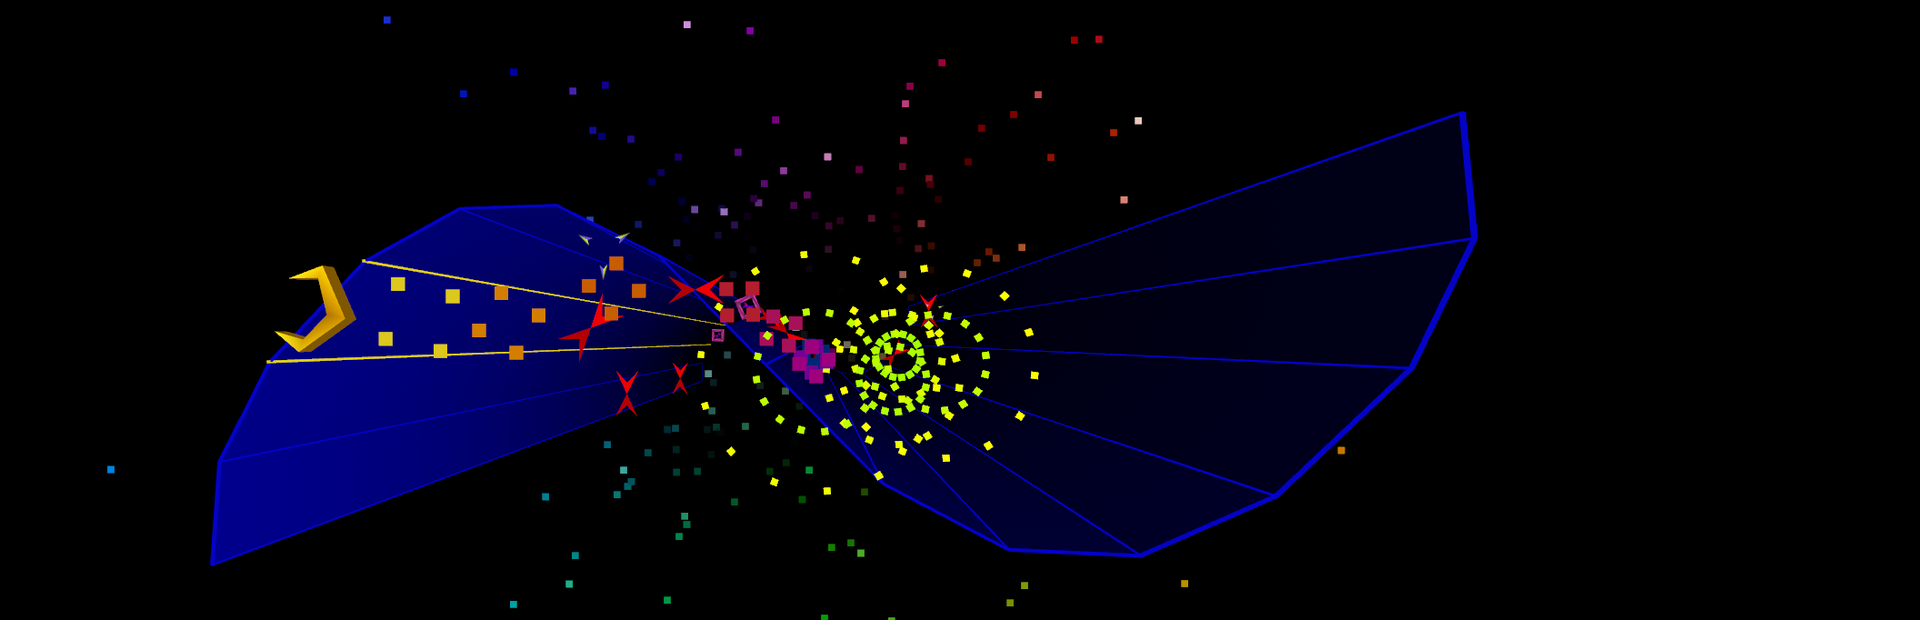
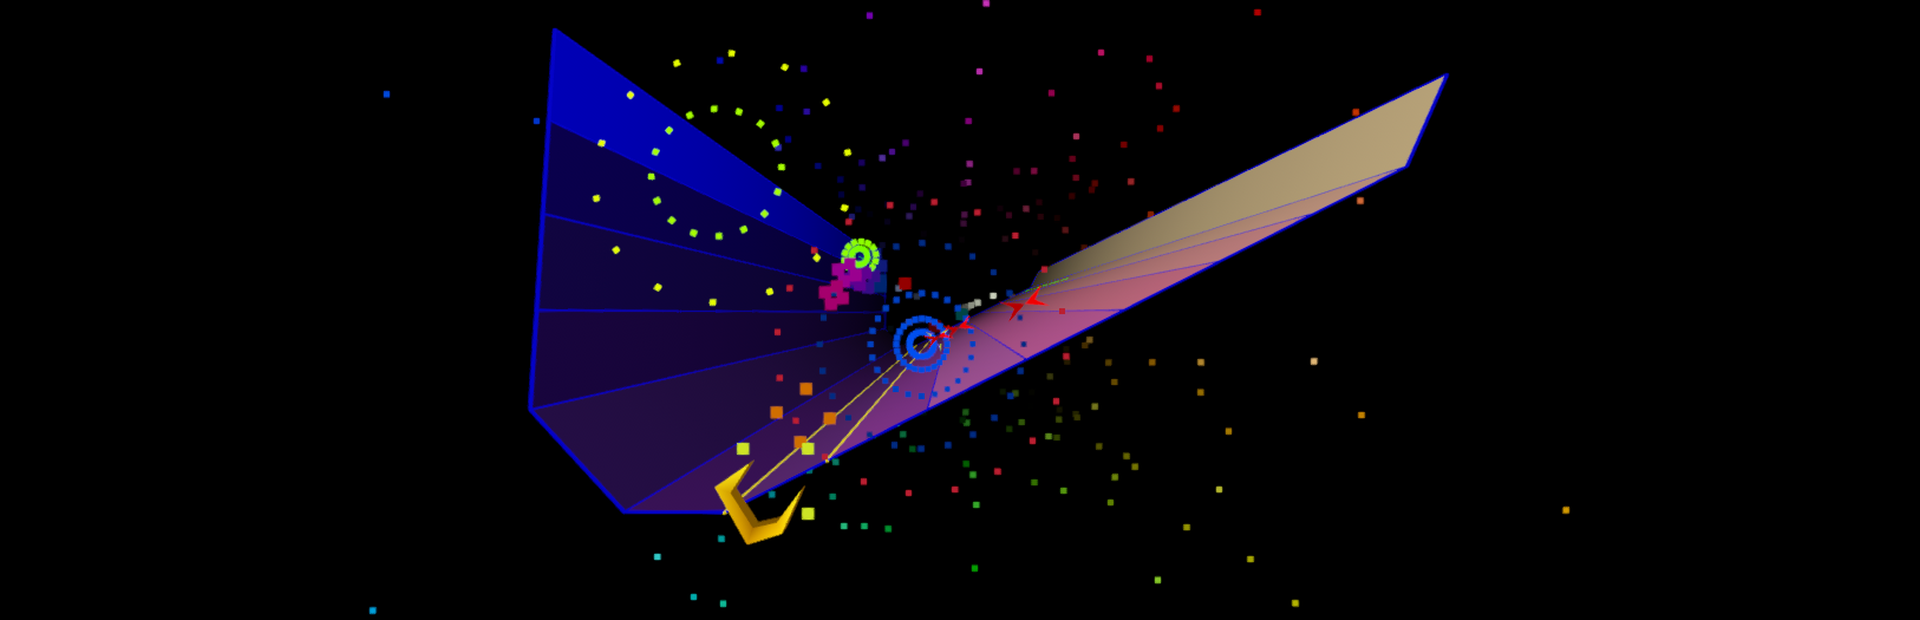
Refresh Steam artwork with level 8 and add an explosion GIF to the README

diff --git a/docs/reference.md b/docs/reference.md
@@ -510,8 +510,8 @@ shortcut ID. Existing custom artwork and nonempty shortcut icons are preserved;
 re-running the installer fills missing artwork and adds an icon to older shortcuts.
 It also replaces the old bundled hero with the reframed version when its bytes
 match the original gameplay image.
-The hero background is a wide gameplay screenshot with a blue
-web, gold claw, enemies, and explosion rings, without HUD or announcement overlays.
+The hero background is a gameplay screenshot of level 8's long V-shaped web,
+with a gold claw, enemies, and explosion rings, without HUD or announcement overlays.
 The screenshot fits within a centered 440-pixel-high area of the 1920×620 hero,
 leaving room for Big Picture's vertical crop and bottom-left logo.
 Running it from the installed copy also works and skips copying onto itself.
@@ -523,6 +523,9 @@ cover captions; `uv` installs the script's Python dependencies. Normal builds an
 installation use the bundled PNGs and need no image conversion tools.
 The hero is generated from `assets/steam/gameplay.png`; to replace that source,
 run `uv run tools/steam_artwork.py --hero-source /path/to/screenshot.png`.
+The README uses `assets/gameplay.gif`, a cropped 4.8-second excerpt of scripted
+level 8 gameplay at 960×465 and 25 frames per second, showing particle-laser fire
+and enemy explosions. Clicking it opens the full-size Steam screenshot.
 
 If detection is ambiguous or Steam is installed in a custom location, use:
 

diff --git a/README.md b/README.md
@@ -6,7 +6,7 @@ The goal is to make Tempest 2000 easy to install and play on today's computers,
 preserve its exact gameplay, and update the graphics for modern GPUs and
 high-resolution displays.
 
-![Gameplay on level 9, with a blue web, gold claw, enemies, and explosion rings](assets/steam/gameplay.png)
+[![Animated gameplay on level 8, with a gold claw, particle laser, enemies, and explosion rings](assets/gameplay.gif)](assets/steam/gameplay.png)
 
 ## Differences from the original
 
